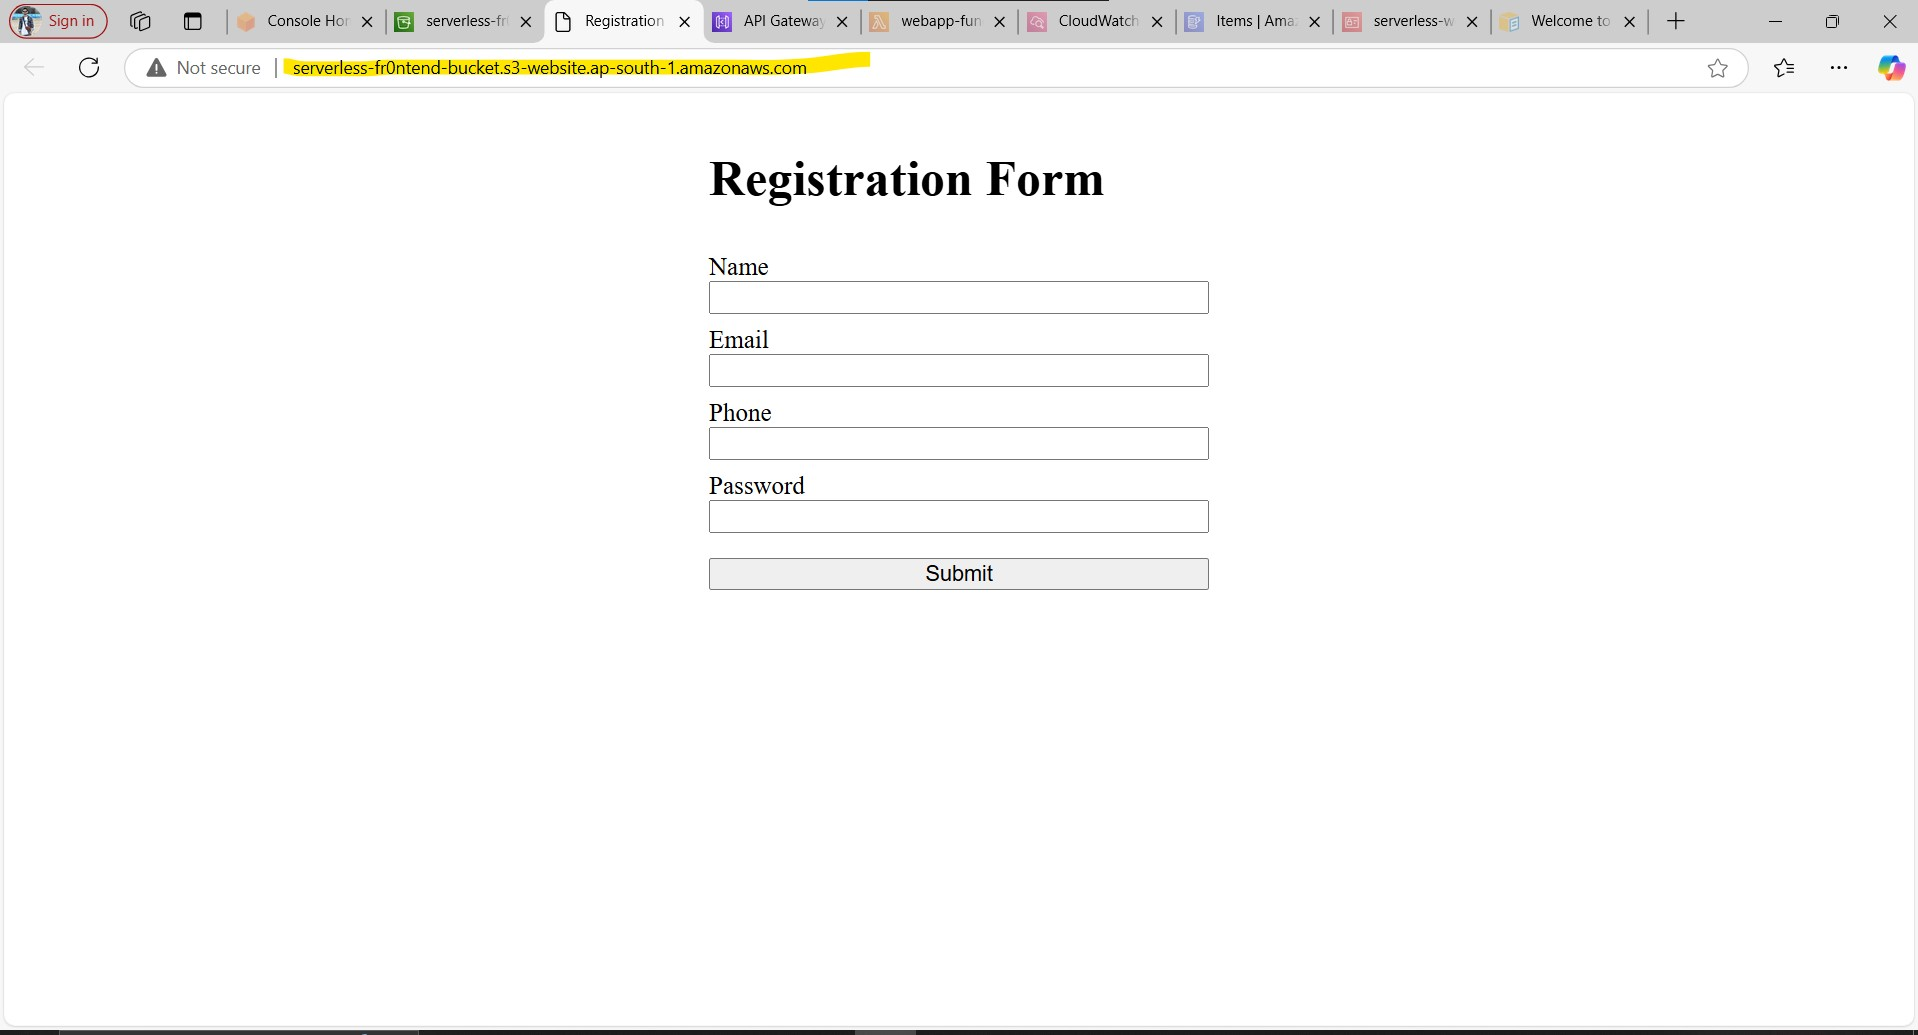
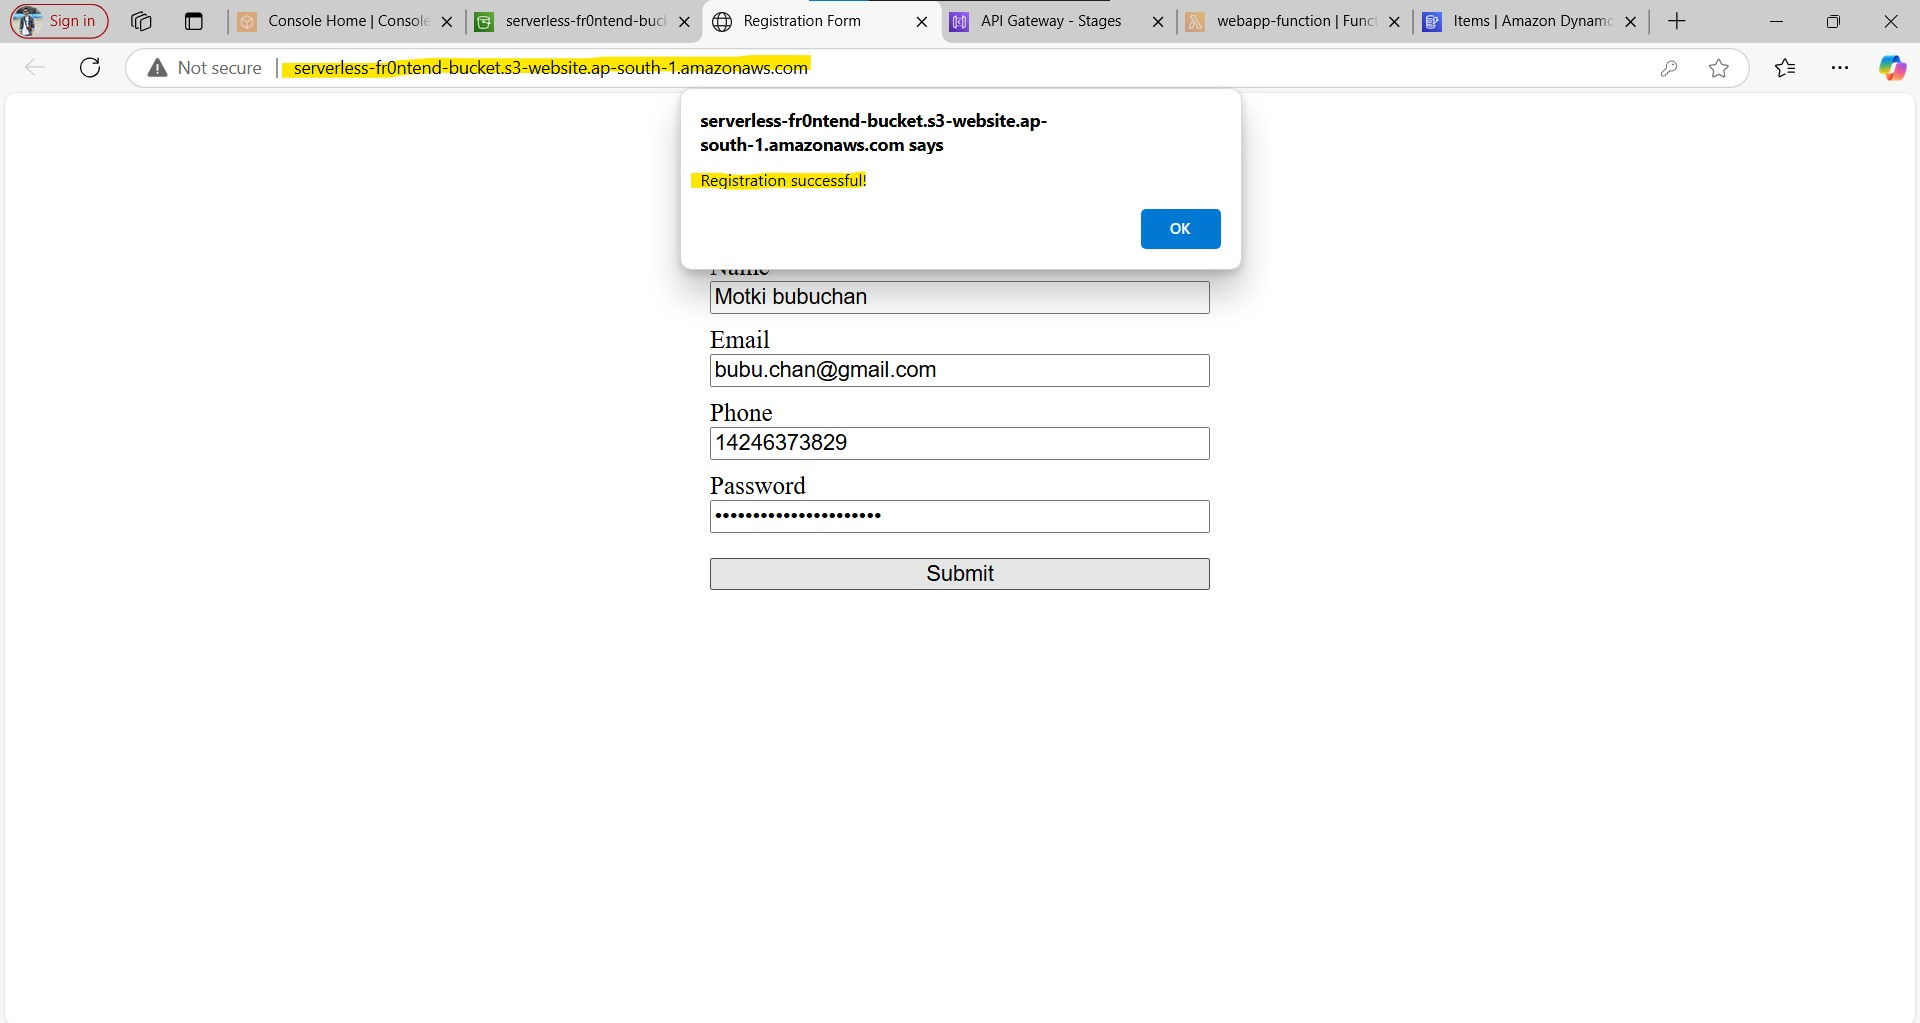
fixed code and it's working fine, tested as well

diff --git a/Frontend/script.js b/Frontend/script.js
@@ -10,9 +10,8 @@ function submitForm() {
     // Create request object
     const xhr = new XMLHttpRequest();
 
-    // Set up request
     //xhr.open('POST', 'API_INVOKE_URL/register', true);
-    xhr.open('POST', 'https://4j3d6a1042.execute-api.ap-south-1.amazonaws.com/dev/resource', true);
+    xhr.open('POST', 'https://5r8gtfjyfh.execute-api.ap-south-1.amazonaws.com/uat/register', true);
     xhr.setRequestHeader('Content-Type', 'application/json');
 
     // Set up response handler
